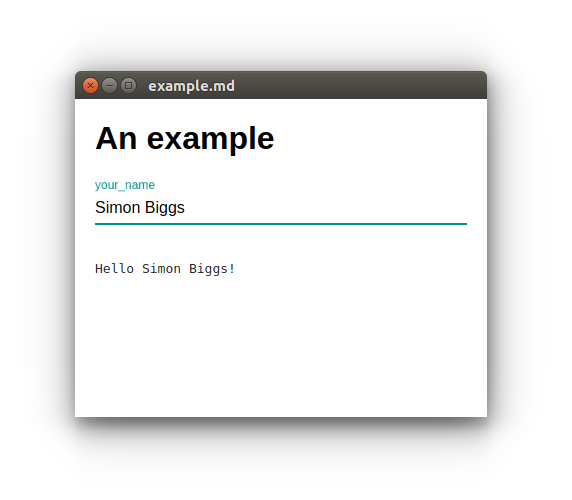
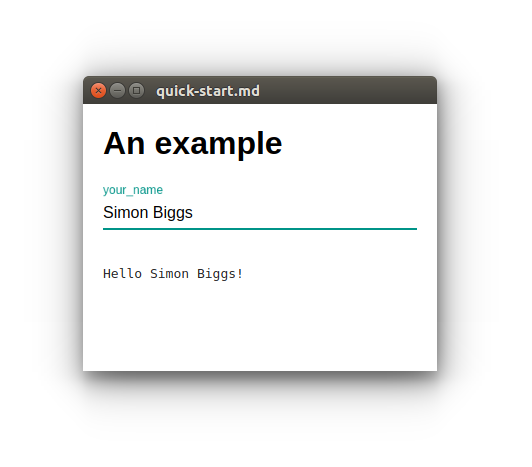
change name to quick-start.md

Changed region(s): [[0.0902, 0.1199, 0.9023, 0.8994]]

diff --git a/README.md b/README.md
@@ -32,7 +32,7 @@ def create_file(filename):
     with open(filename, 'w') as f:
         f.write(markdown_contents)
 
-filename = 'example.md'
+filename = 'quick-start.md'
 create_file(filename)
 sf.load(filename)
 ```
